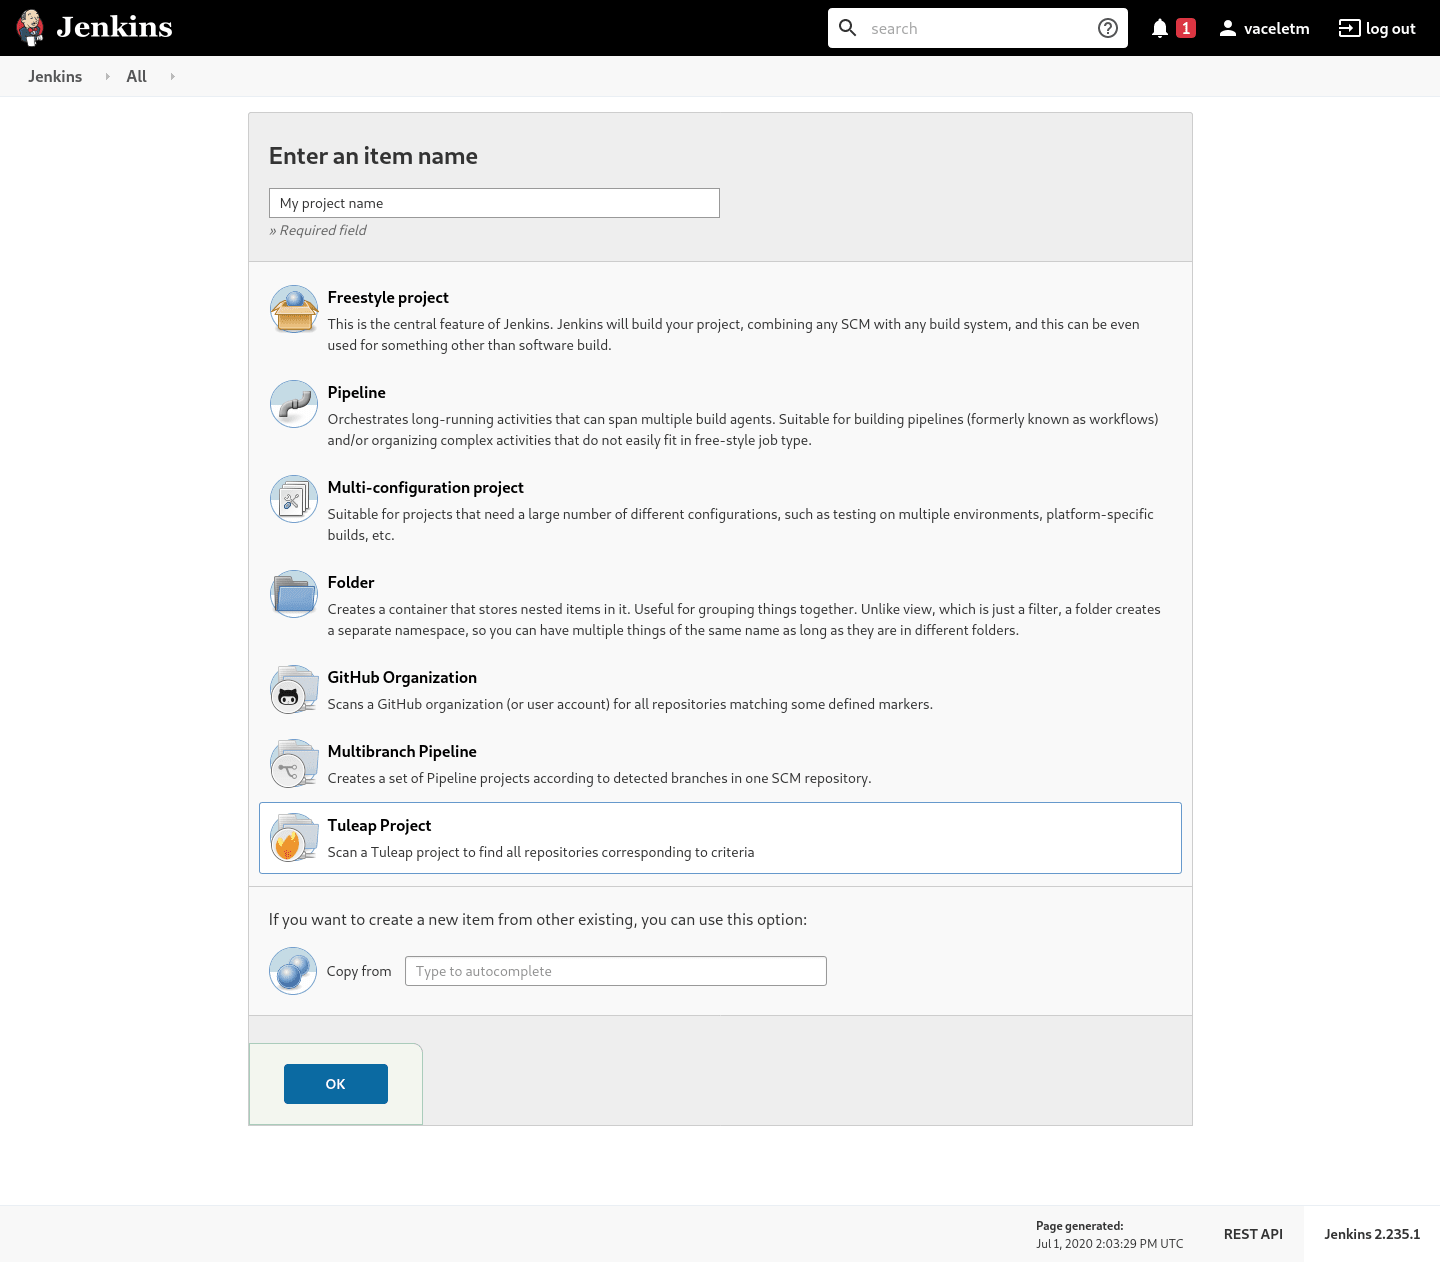
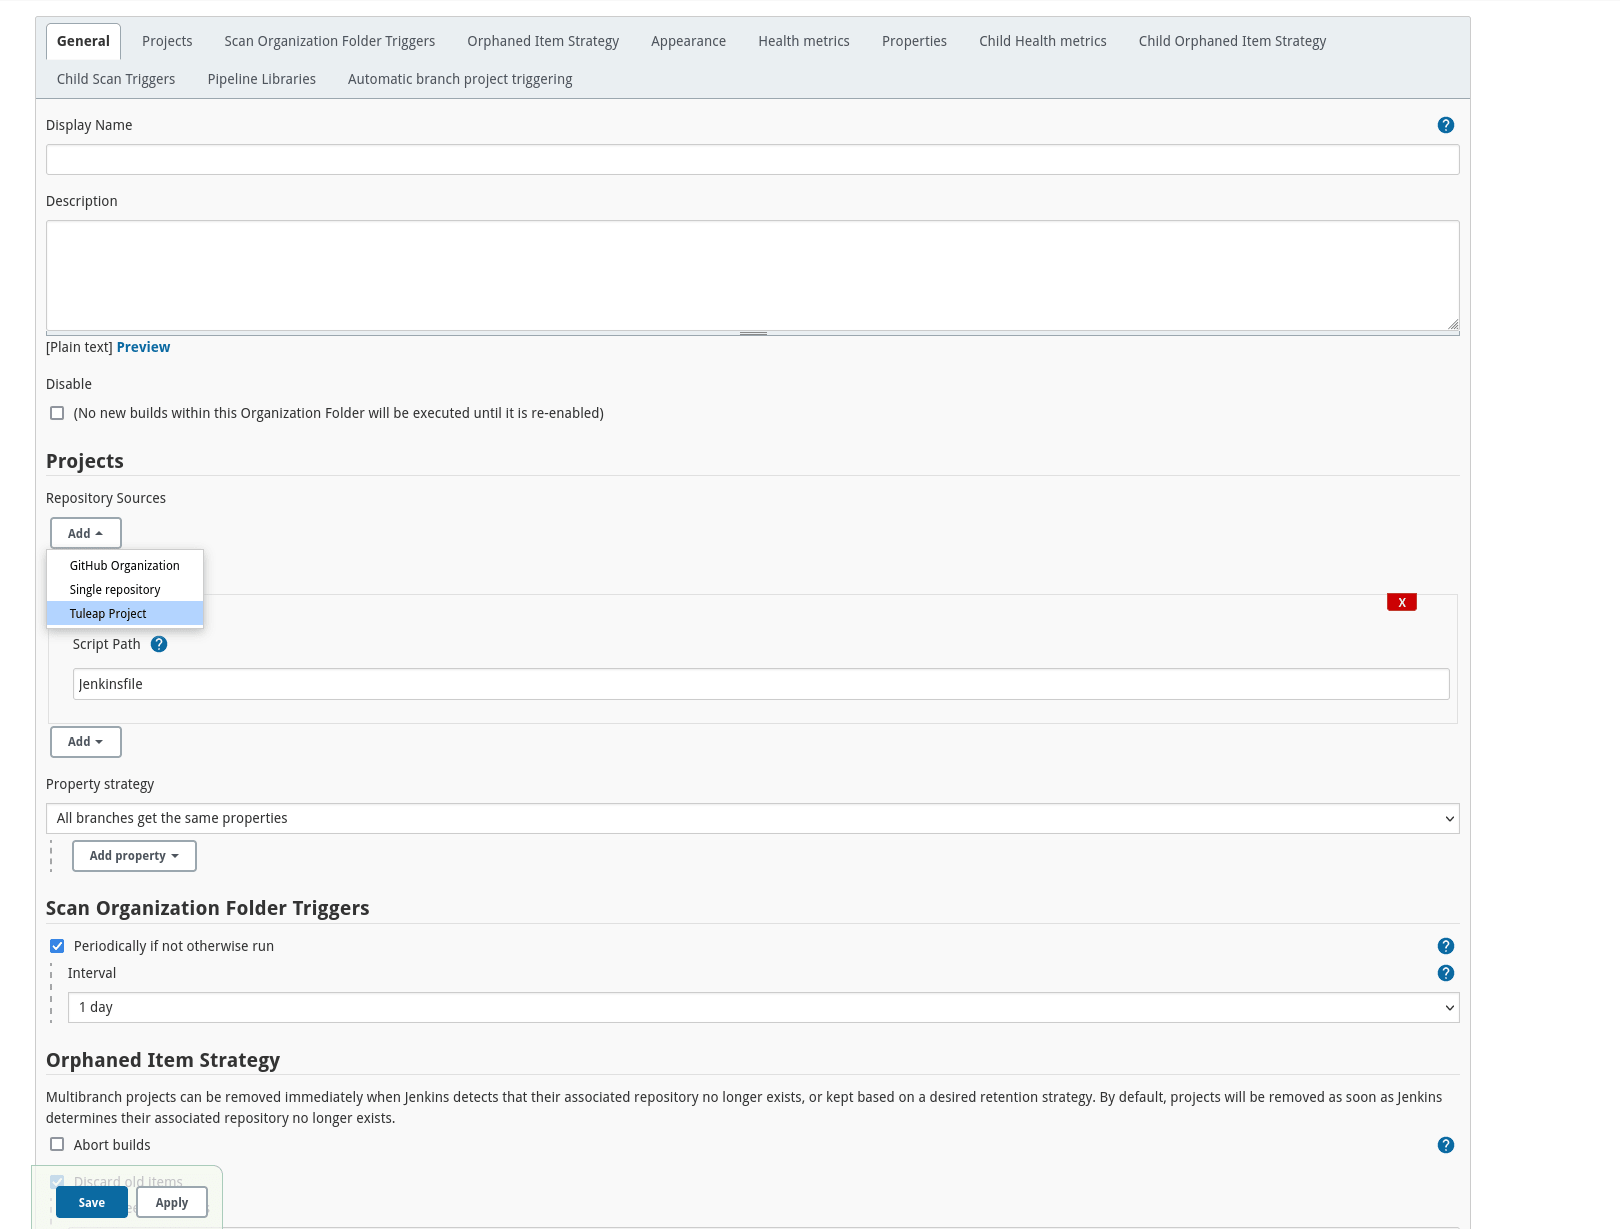
Update screenshot

diff --git a/languages/en/user-guide/ci.rst b/languages/en/user-guide/ci.rst
@@ -333,7 +333,7 @@ In Tuleap, either with a service or personal account that have read access to th
 Step 2: Create a Tuleap Project
 ```````````````````````````````
 
-In Jenkins, create a new job with type "Tuleap Project". It should be named after your Tuleap project name to ease organisation.
+In Jenkins, create an Organization Folder and in the Projet Section of the configuration choose "Tuleap Project" on Repository sources selectbox.
 
 .. figure:: ../images/screenshots/jenkins/tgbs_new_project.png
    :align: center
